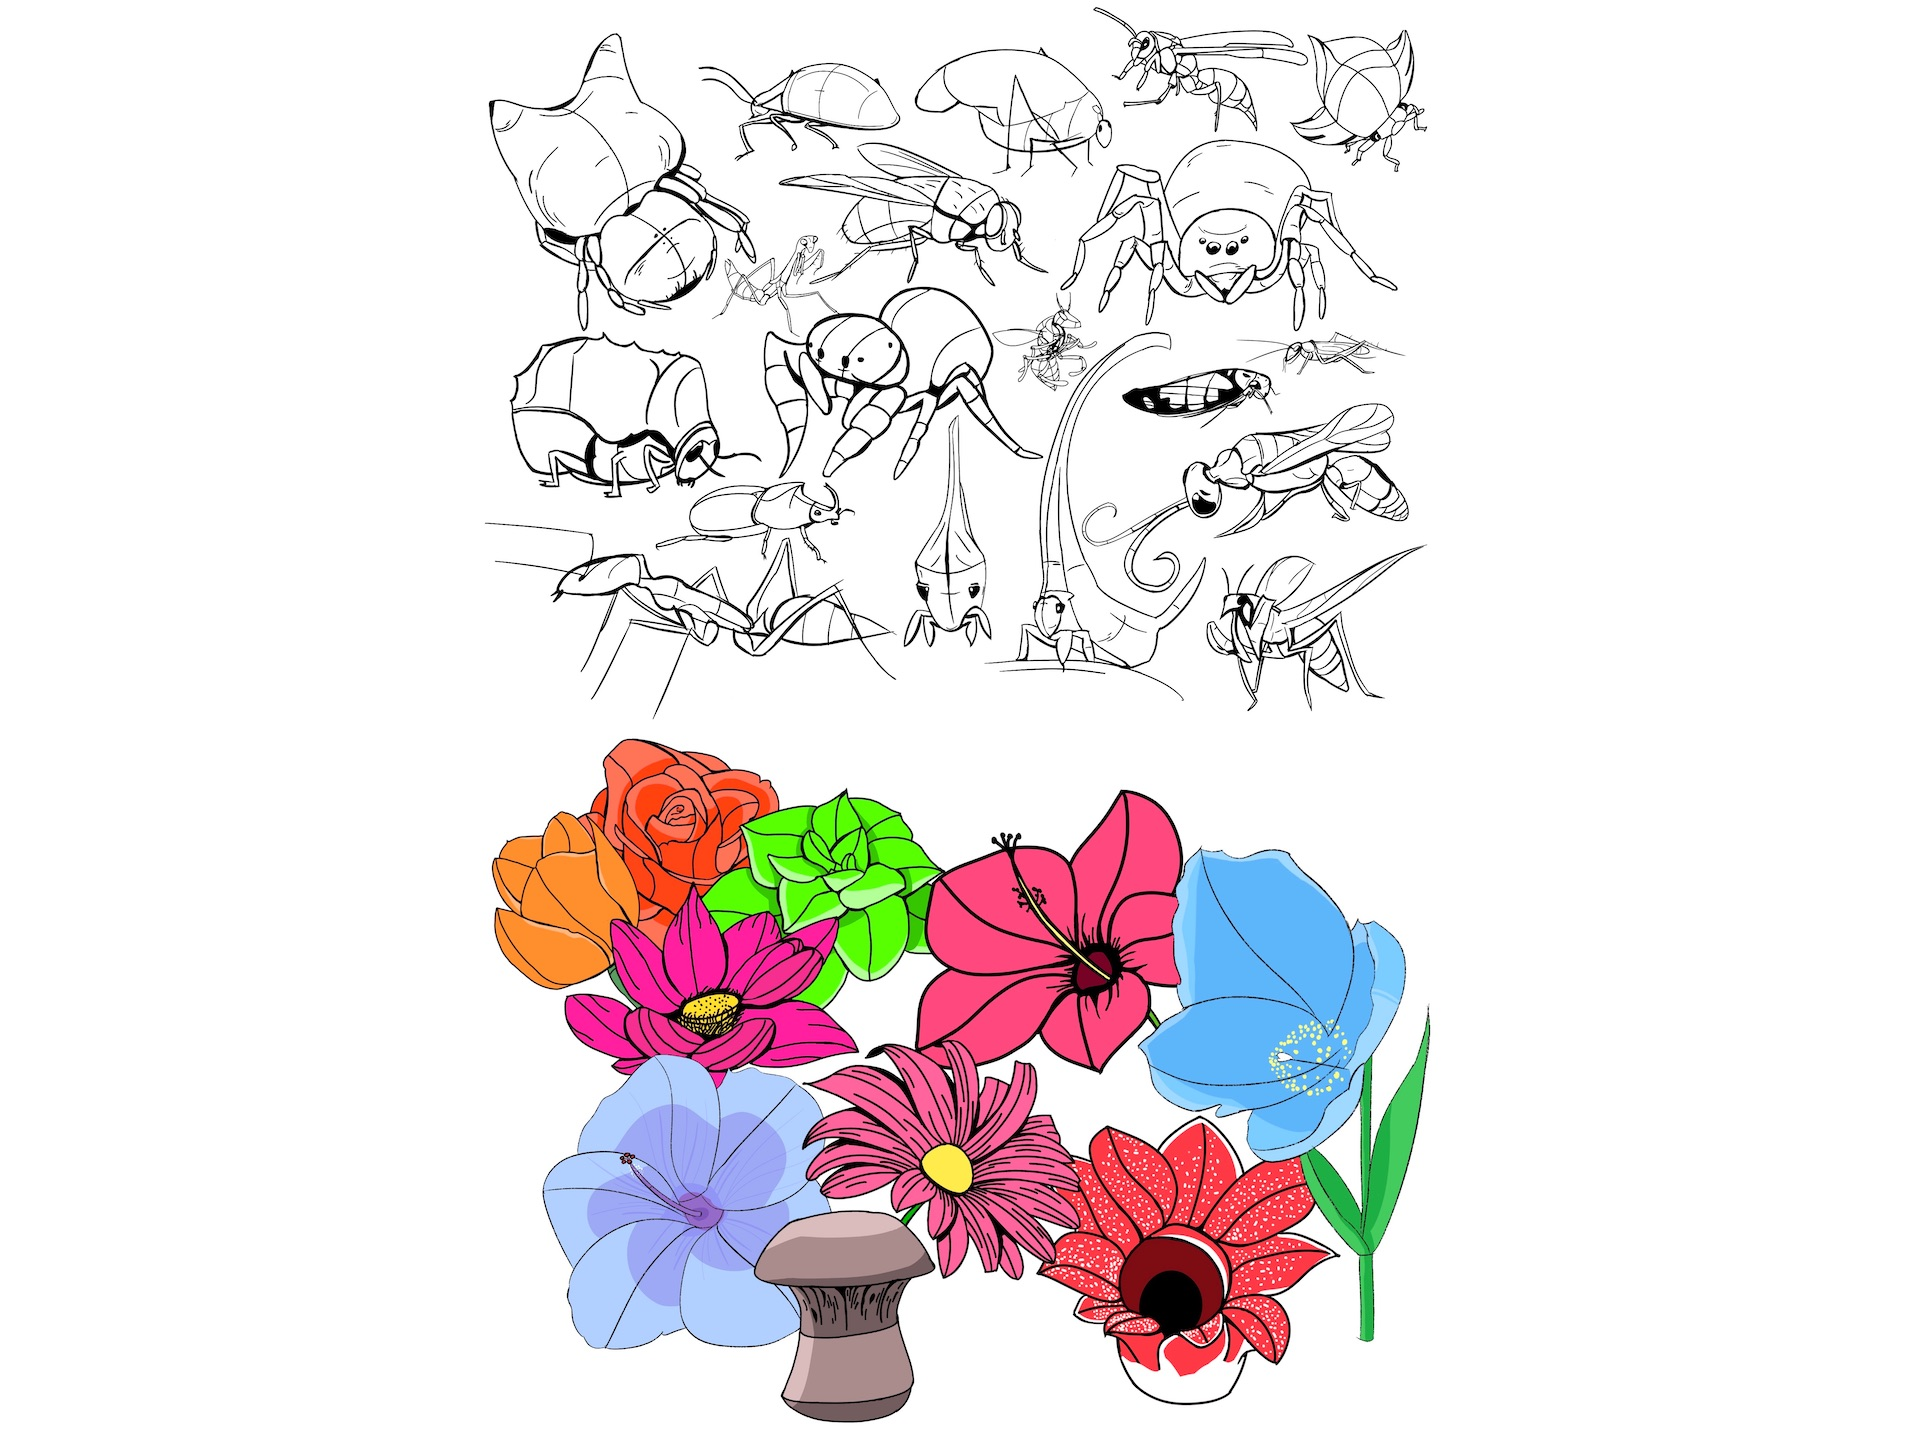
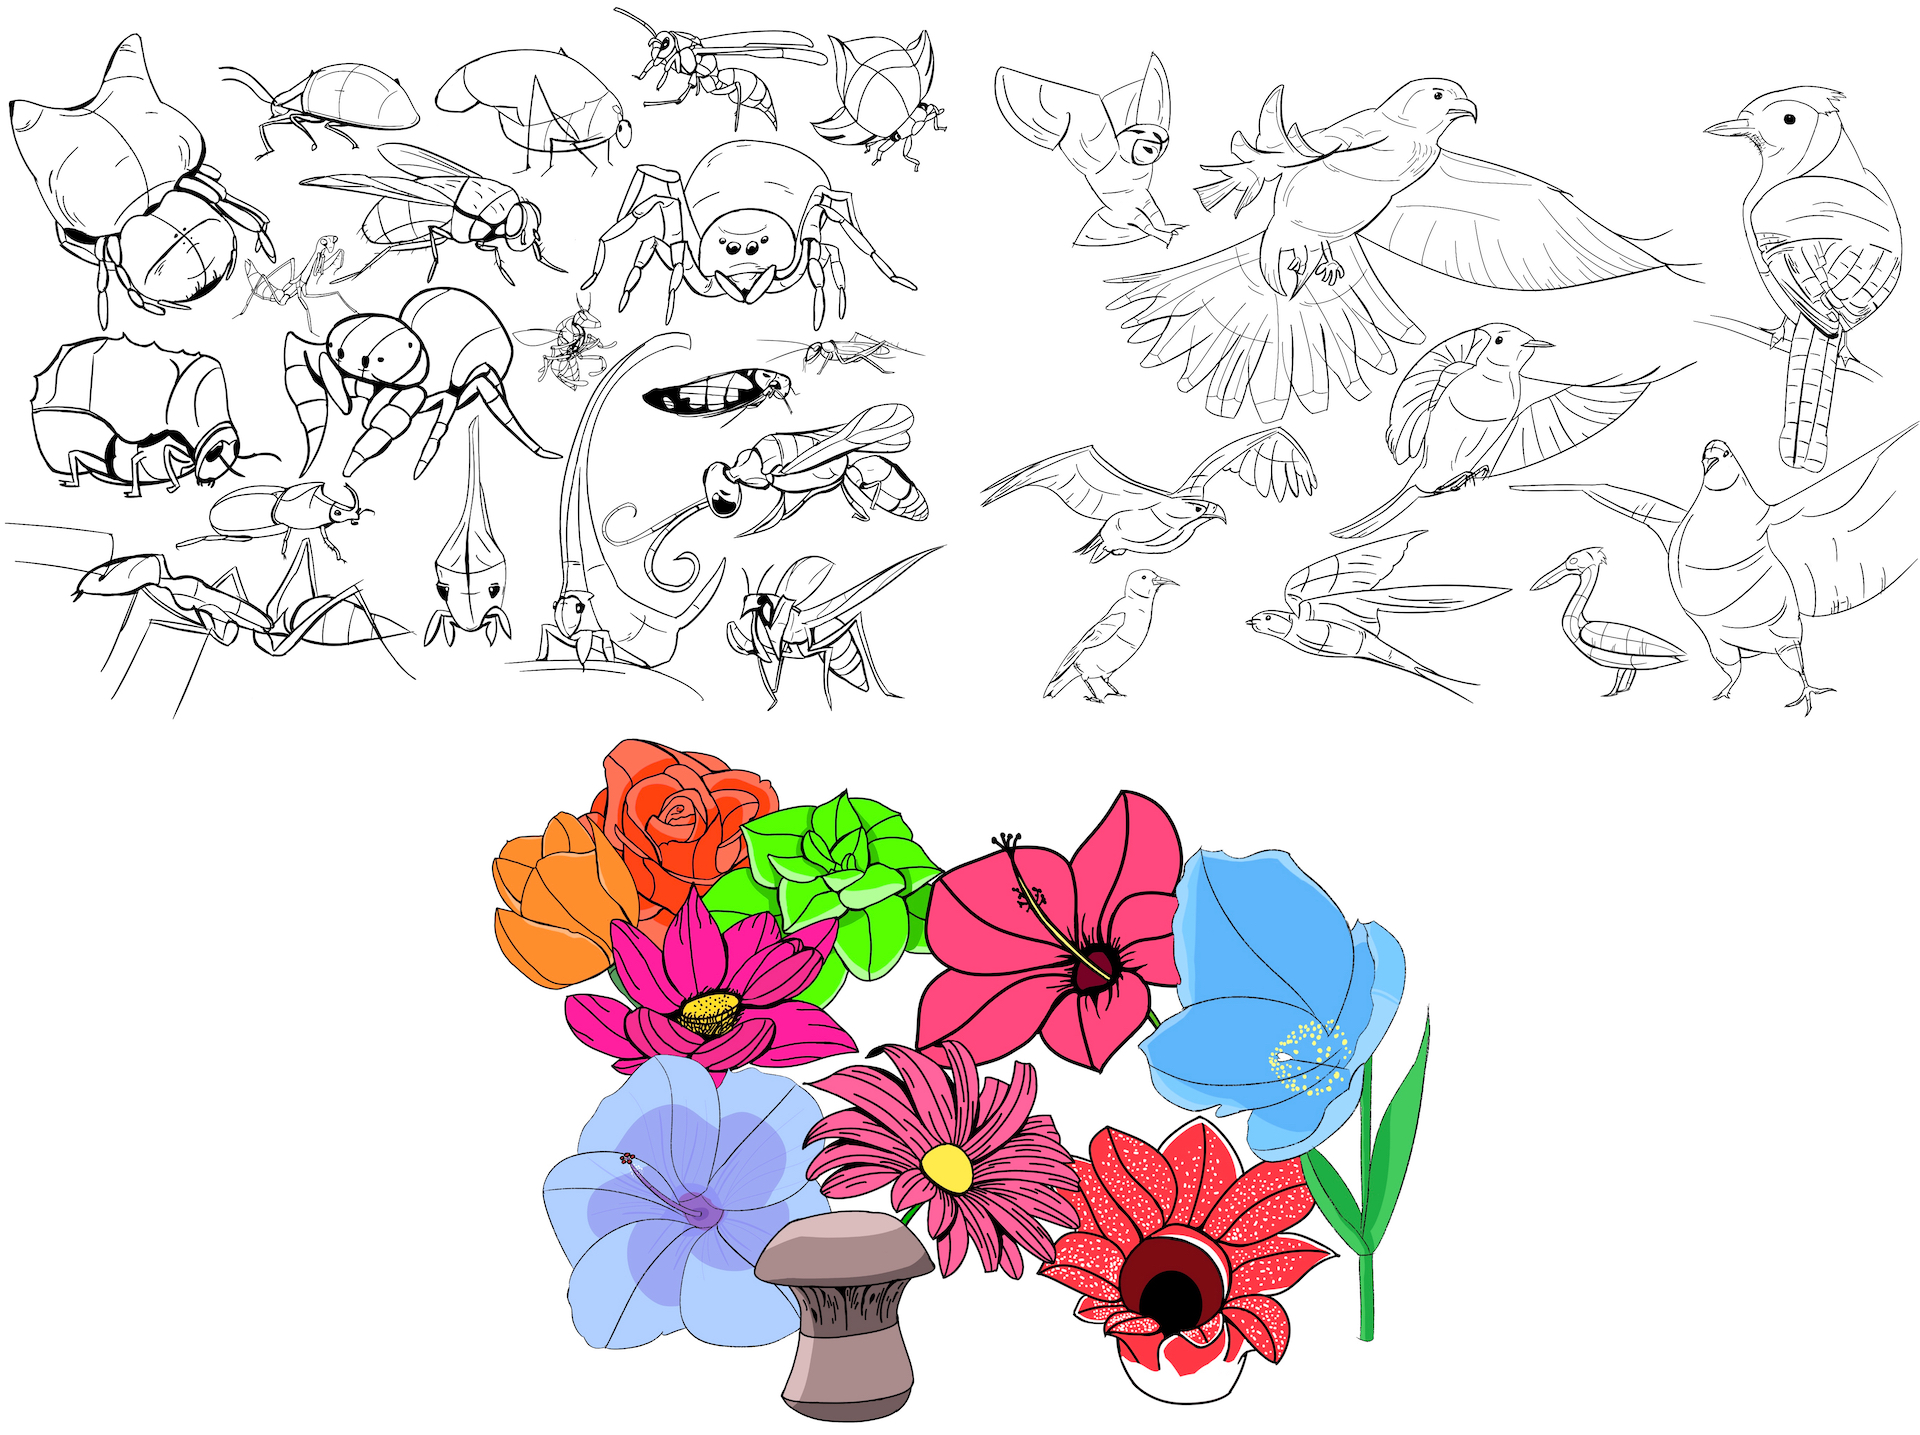
Update homepage with collage of birds

diff --git a/index.html b/index.html
@@ -46,7 +46,7 @@
     </div>
     <p>Art</p>
     <ul>
-      <li>Learned how to draw flowers, insects, and mammals using constructional methods</li>
+      <li>Learned how to draw flowers, insects, and birds using constructional methods</li>
       <li>Watched Cyberpunk Edgerunners</li>
     </ul>
     <p>Fun</p>
@@ -55,7 +55,7 @@
       <li>Built a secret AI project (viral tweet coming soon)</li>
     </ul>
     <div>
-      <h2>Perspective 2, 45 Hours</h2>
+      <h2>Perspective 2, 41 Hours</h2>
       <img src="img/art-home-school/perspective-2/collages/faves.jpeg" />
     </div>
   </div>
